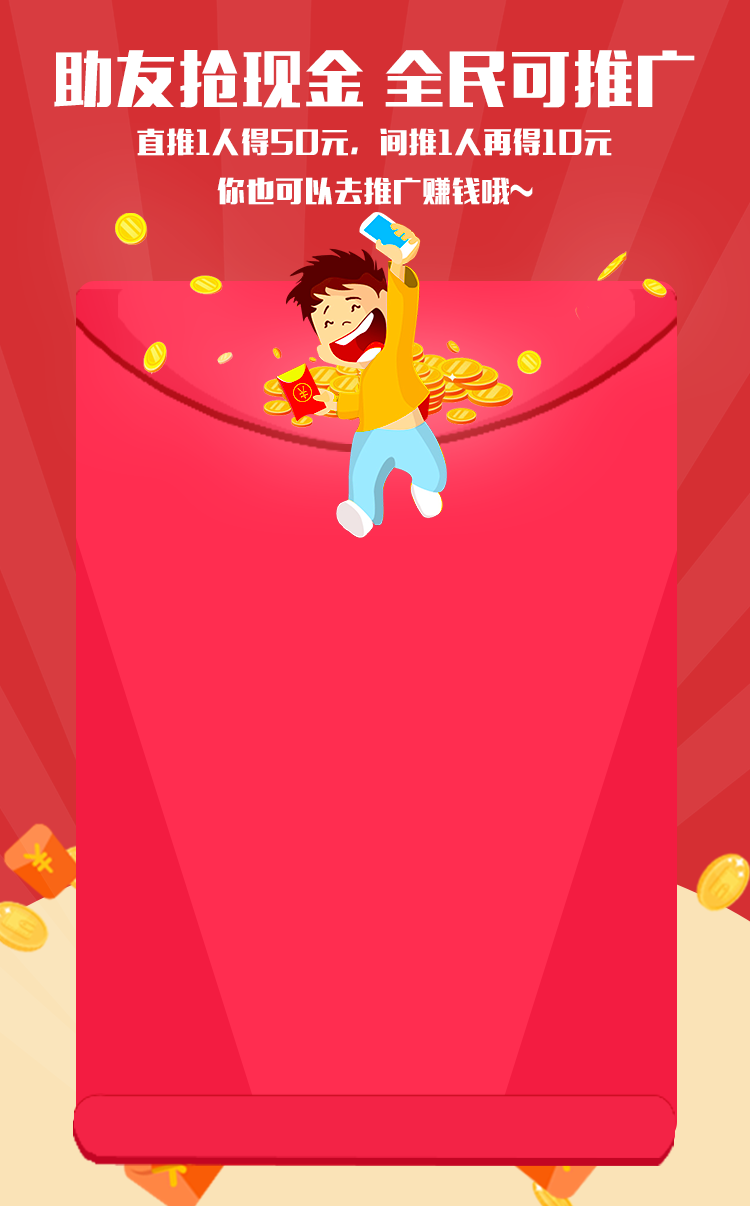
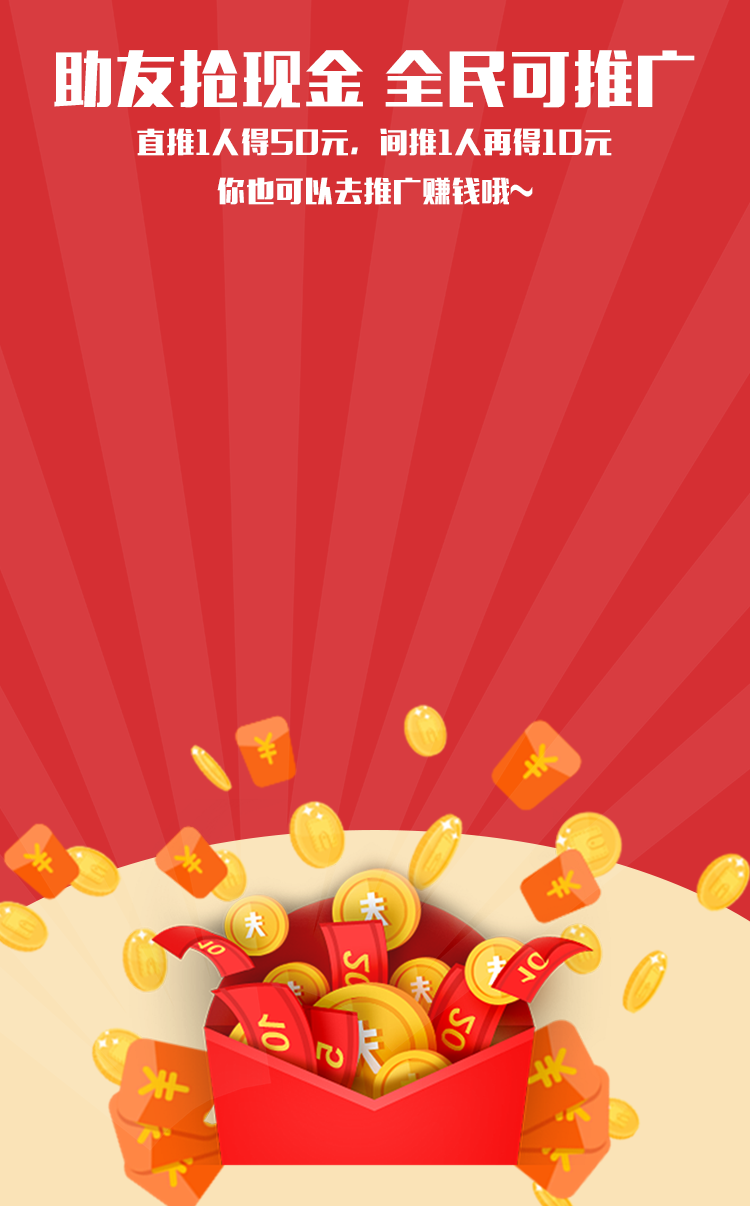
Aa

diff --git a/html/promotionreg.html b/html/promotionreg.html
@@ -8,34 +8,33 @@
     <title>注册</title>
 </head>
 <body>
-    <img class="backImg" src="../src/backimage.png">
-    <div class="container">
-       <div class="inputBox">
-           <input class="" placeholder="请输入手机号码"/>
-       </div>
-        <div class="inputBox" id="codeDiv">
-            <input id="codeInput" placeholder="请输入验证码"/>
-            <button id="codeBut">获取验证码</button>
-        </div>
-        <div class="inputBox">
-            <input  placeholder="请输入登录密码"/>
-        </div>
-        <button class="reg" >注册瓜分50元现金</button>
-        <p class="info">奖金系统自动秒结算 可立即提现</p>
-        <div class="inputBox">
-            <input placeholder="推荐人手机号(推荐人奖励50元现金)"/>
-        </div>
-        <div class="bottoms">
-            <a href="http://www.baidu.com">奖励规则</a>
-            <a href="http://www.baidu.com">下载容易付APP</a>
-        </div>
+    <div class="rule">
+        <a href="http://www.baidu.com">
+            <img  src="../src/rule.png">
+        </a>
     </div>
-    <script type="text/javascript">
-        function changeContainerMarginTop() {
-            var top = (window.innerWidth/375*270) + 'px';
-            document.getElementsByClassName('container')[0].style.marginTop = top;
-        }
-        changeContainerMarginTop()
-    </script>
+    <div class="container">
+       <div class="content">
+           <div class="inputBox">
+               <input class="" placeholder="请输入手机号码"/>
+           </div>
+           <div class="inputBox" id="codeDiv">
+               <input id="codeInput" placeholder="请输入验证码"/>
+               <button id="codeBut">获取验证码</button>
+           </div>
+           <div class="inputBox">
+               <input  placeholder="请输入登录密码"/>
+           </div>
+           <button class="reg" >
+               <img src="../src/regbut.png">
+           </button>
+           <p class="info">奖金系统自动秒结算 可立即提现</p>
+           <div class="inputBox">
+               <input placeholder="推荐人手机号(推荐人奖励50元现金)"/>
+           </div>
+
+       </div>
+    </div>
+
 </body>
 </html>

diff --git a/css/promotionreg.css b/css/promotionreg.css
@@ -4,19 +4,33 @@
 }
 body{
     background-color: rgb(251,228,184);
+    background: url('../src/backimage.png') no-repeat fixed;
+    background-size: 100% 100%;
+    display: flex;
+    flex-direction: column;
+    align-items: center;
 }
-.backImg{
+.rule{
     width: 100%;
-    height: auto;
-    position: absolute;
+    margin-top: 78px;
+
+}
+.rule img{
+    width: 50px;
+    float: right;
 }
 .container{
-    position: absolute;
-    margin-top: 270px;
-    margin-left: 40px;
-    height:auto;
-    width: calc(100% - 80px);
-
+    /*position: absolute;*/
+    height:477px;
+    width: 300px;
+    background: url('../src/envelope.png') no-repeat;
+    background-size: 100% 100%;
+    overflow: hidden;
+}
+.content{
+    margin-top: 165px;
+    display: flex;
+    flex-direction: column;
 }
 .inputBox{
     background-color: white;
@@ -55,18 +69,13 @@ input{
 
 
 }
-
 .reg{
-    margin: 10px 30px;
-    height: 40px;
-    width: calc(100% - 60px);
-    border-radius: 20px;
-    background-color: rgb(255,160,64);
     border: none;
-    box-shadow: 5px 5px 5px 1px rgba(0,0,0,0.3) ;
-    font-weight: bold;
-    font-size: 18px;
-    color: red;
+}
+.reg > *{
+    width: 235px;
+    height: auto;
+
 }
 .info{
     color: white;

diff --git a/html/regsuccess.html b/html/regsuccess.html
@@ -1,0 +1,27 @@
+<!DOCTYPE html>
+<html lang="en">
+<head>
+    <meta charset="UTF-8">
+    <meta name="viewport"
+          content="width=device-width,initial-scale=1,maximum-scale=1,user-scalable=no">
+    <title>容易付-聚合收款App</title>
+    <link rel="stylesheet" type="text/css" href="../css/regsuccess.css"/>
+</head>
+<body>
+<div class="container">
+    <a href="http://www.baidu.com">
+        <img src="../src/android-download.png">
+    </a>
+    <a href="http://www.baidu.com">
+        <img src="../src/ios-download.png">
+    </a>
+</div>
+<script type="text/javascript">
+    function changeContainerMarginTop() {
+        var top = (window.innerWidth / 375 * 410) + 'px';
+        document.getElementsByClassName('container')[0].style.marginTop = top;
+    }
+    changeContainerMarginTop()
+</script>
+</body>
+</html>

diff --git a/css/regsuccess.css b/css/regsuccess.css
@@ -1,0 +1,17 @@
+* {
+    margin: 0px;
+    padding: 0px;
+}
+body{
+    background-color: rgb(251,228,184);
+    background: url('../src/rs-backimage.png') no-repeat fixed;
+    background-size: 100% 100%;
+
+}
+.container{
+
+}
+img{
+    width: calc(100% - 60px);
+    margin: 3px 30px;
+}
